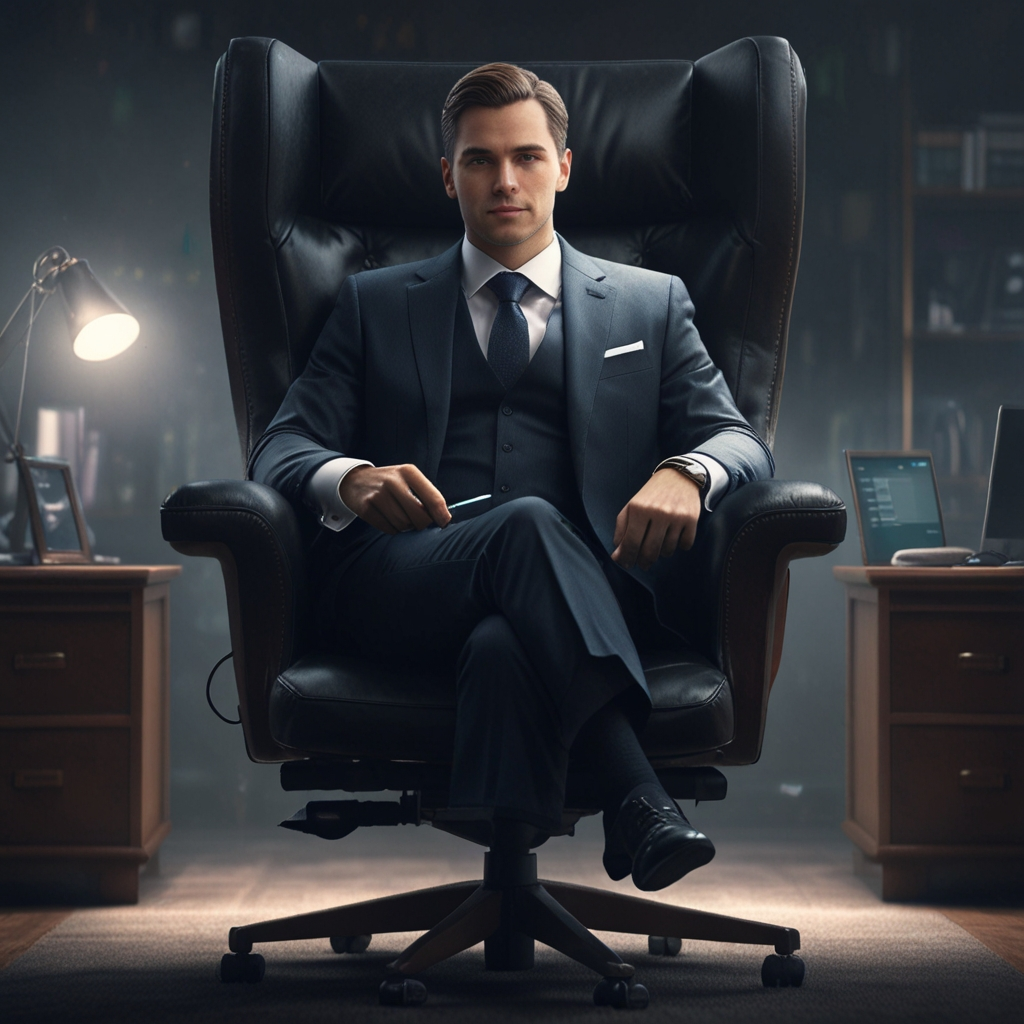
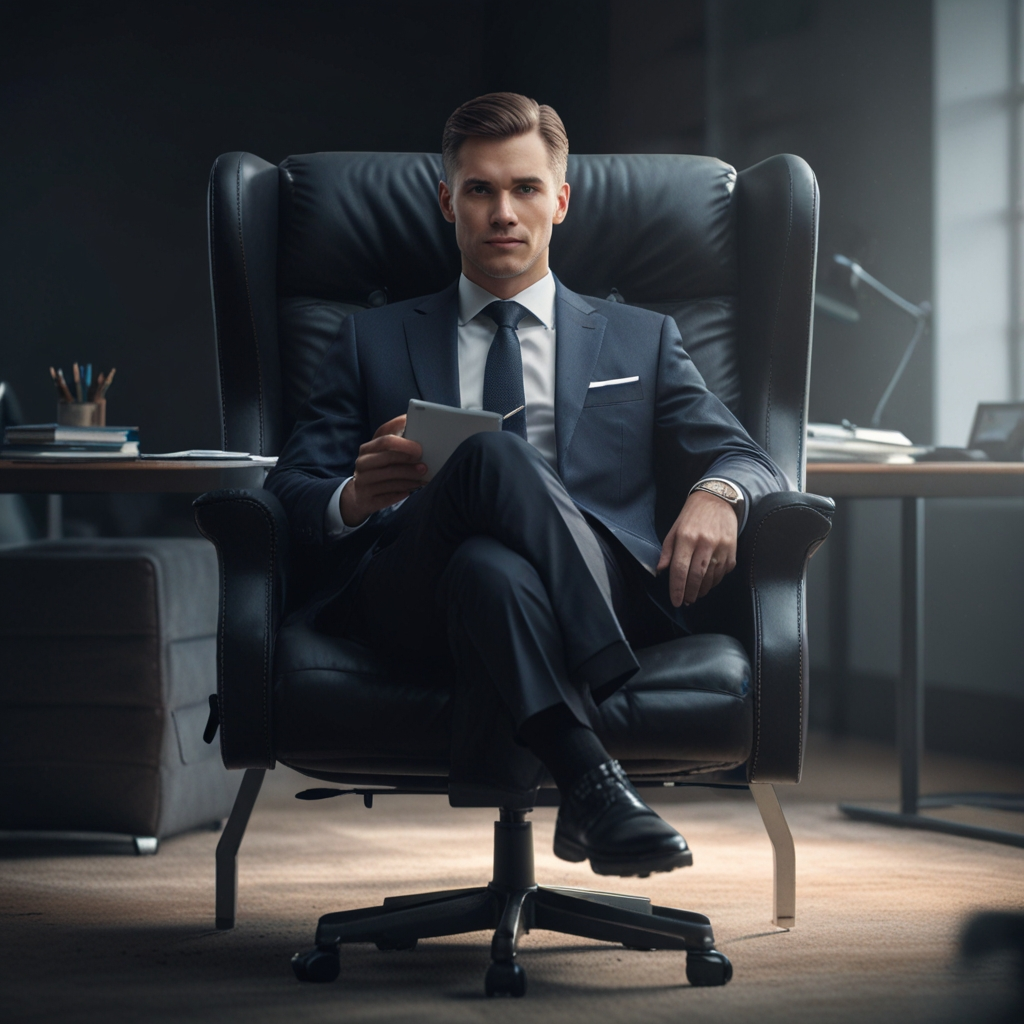
Web Improved

diff --git a/task-manager/src/App.jsx b/task-manager/src/App.jsx
@@ -13,23 +13,23 @@ function App() {
       <Router>
         <nav className="navbar navbar-expand-lg">
           <div className="container-fluid">
-            <Link className="navbar-brand" to="/TK-Manager/">TK-Manager</Link>
+            <Link className="navbar-brand" to="/">TK-Manager</Link>
             <button className="navbar-toggler" type="button" data-bs-toggle="collapse" data-bs-target="#navbarSupportedContent" aria-controls="navbarSupportedContent" aria-expanded="false" aria-label="Toggle navigation">
               <span className="navbar-toggler-icon"><i class="fa-solid fa-bars"></i></span>
             </button>
             <div className="collapse navbar-collapse" id="navbarSupportedContent">
               <ul className="navbar-nav me-auto mb-2 mb-lg-0">
                 <li className="nav-item">
-                  <Link className="nav-link active" aria-current="page" to="/TK-Manager/">Home</Link>
+                  <Link className="nav-link active" aria-current="page" to="/">Home</Link>
                 </li>
                 <li className="nav-item">
-                  <Link className="nav-link" to="/TK-Manager/users">Users</Link>
+                  <Link className="nav-link" to="/users">Users</Link>
                 </li>
                 <li className="nav-item">
-                  <Link className="nav-link" to="/TK-Manager/contact">Contact</Link>
+                  <Link className="nav-link" to="/contact">Contact</Link>
                 </li>
                 <li className="nav-item">
-                  <Link className="nav-link" to="/TK-Manager/tasks">Tasks</Link>
+                  <Link className="nav-link" to="/tasks">Tasks</Link>
                 </li>
               </ul>
               <form className="d-flex" role="search">
@@ -40,10 +40,10 @@ function App() {
           </div>
         </nav>
         <Routes>
-          <Route path="/TK-Manager/" element={<Home />} />
-          <Route path="/TK-Manager/users" element={<Users />} />
-          <Route path="/TK-Manager/contact" element={<Contact />} />
-          <Route path="/TK-Manager/tasks" element={<TaskList />} />
+          <Route path="/" element={<Home />} />
+          <Route path="/users" element={<Users />} />
+          <Route path="/contact" element={<Contact />} />
+          <Route path="/tasks" element={<TaskList />} />
         </Routes>
       </Router>
       <footer>

diff --git a/task-manager/dist/index.html b/task-manager/dist/index.html
@@ -6,8 +6,8 @@
     <link rel="stylesheet" href="https://cdnjs.cloudflare.com/ajax/libs/font-awesome/6.5.2/css/all.min.css" integrity="sha512-SnH5WK+bZxgPHs44uWIX+LLJAJ9/2PkPKZ5QiAj6Ta86w+fsb2TkcmfRyVX3pBnMFcV7oQPJkl9QevSCWr3W6A==" crossorigin="anonymous" referrerpolicy="no-referrer" />
     <meta name="viewport" content="width=device-width, initial-scale=1.0" />
     <title>TK-Manager</title>
-    <script type="module" crossorigin src="/TK-Manager/assets/index-BQuC2NWE.js"></script>
-    <link rel="stylesheet" crossorigin href="/TK-Manager/assets/index-CSvmaHXq.css">
+    <script type="module" crossorigin src="/TK-Manager/assets/index-DWk-FNle.js"></script>
+    <link rel="stylesheet" crossorigin href="/TK-Manager/assets/index-BlUZe387.css">
   </head>
   <body>
     <div id="root"></div>

diff --git a/task-manager/src/Home.jsx b/task-manager/src/Home.jsx
@@ -4,7 +4,7 @@ function Home() {
     <>
       <div className="location">Home</div>
       <p className='desc'>¡Bienvenido a <b>TK-Manager!</b> <br></br> Aquí podrás hacer listas de tareas personalizadas, editar datos de usuarios randoms dadas por APIs improvisadas y más</p>
-      <img className='welcome' src="./src/IMG/welcome.jpg" alt=""/>
+      <img className='welcome' src="./src/IMG/welcome2.jpg" alt=""/>
     </>
   )
 }
